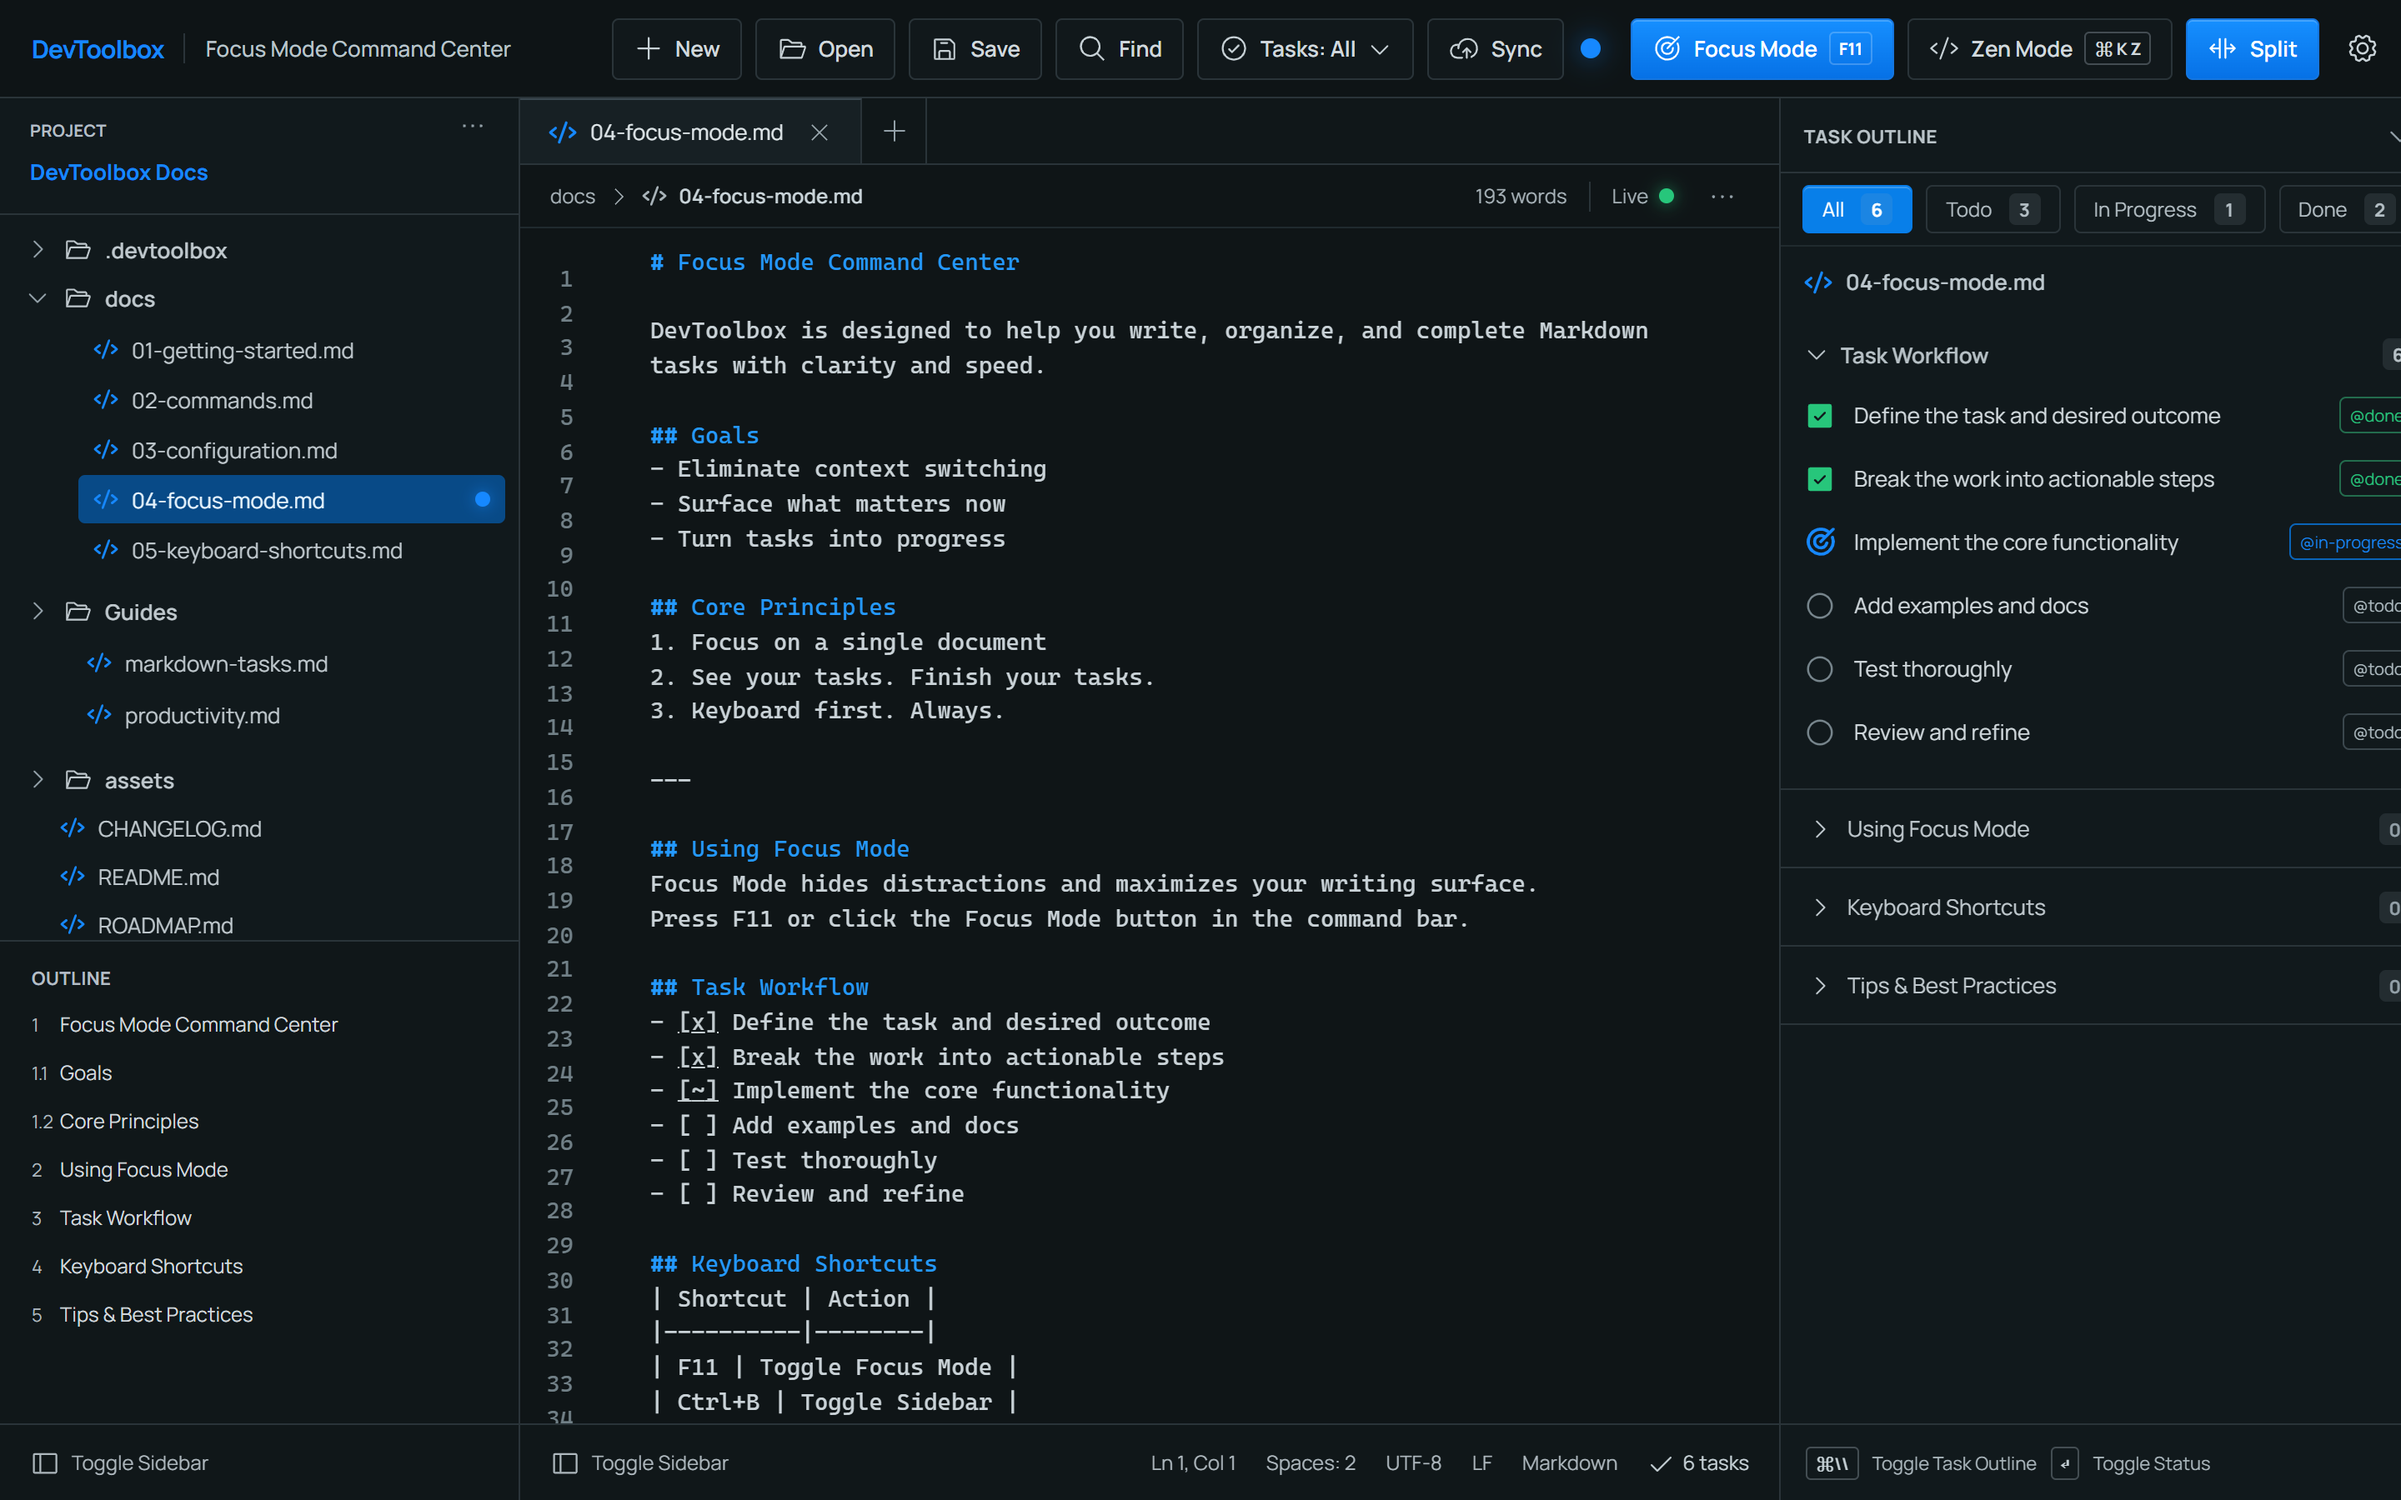
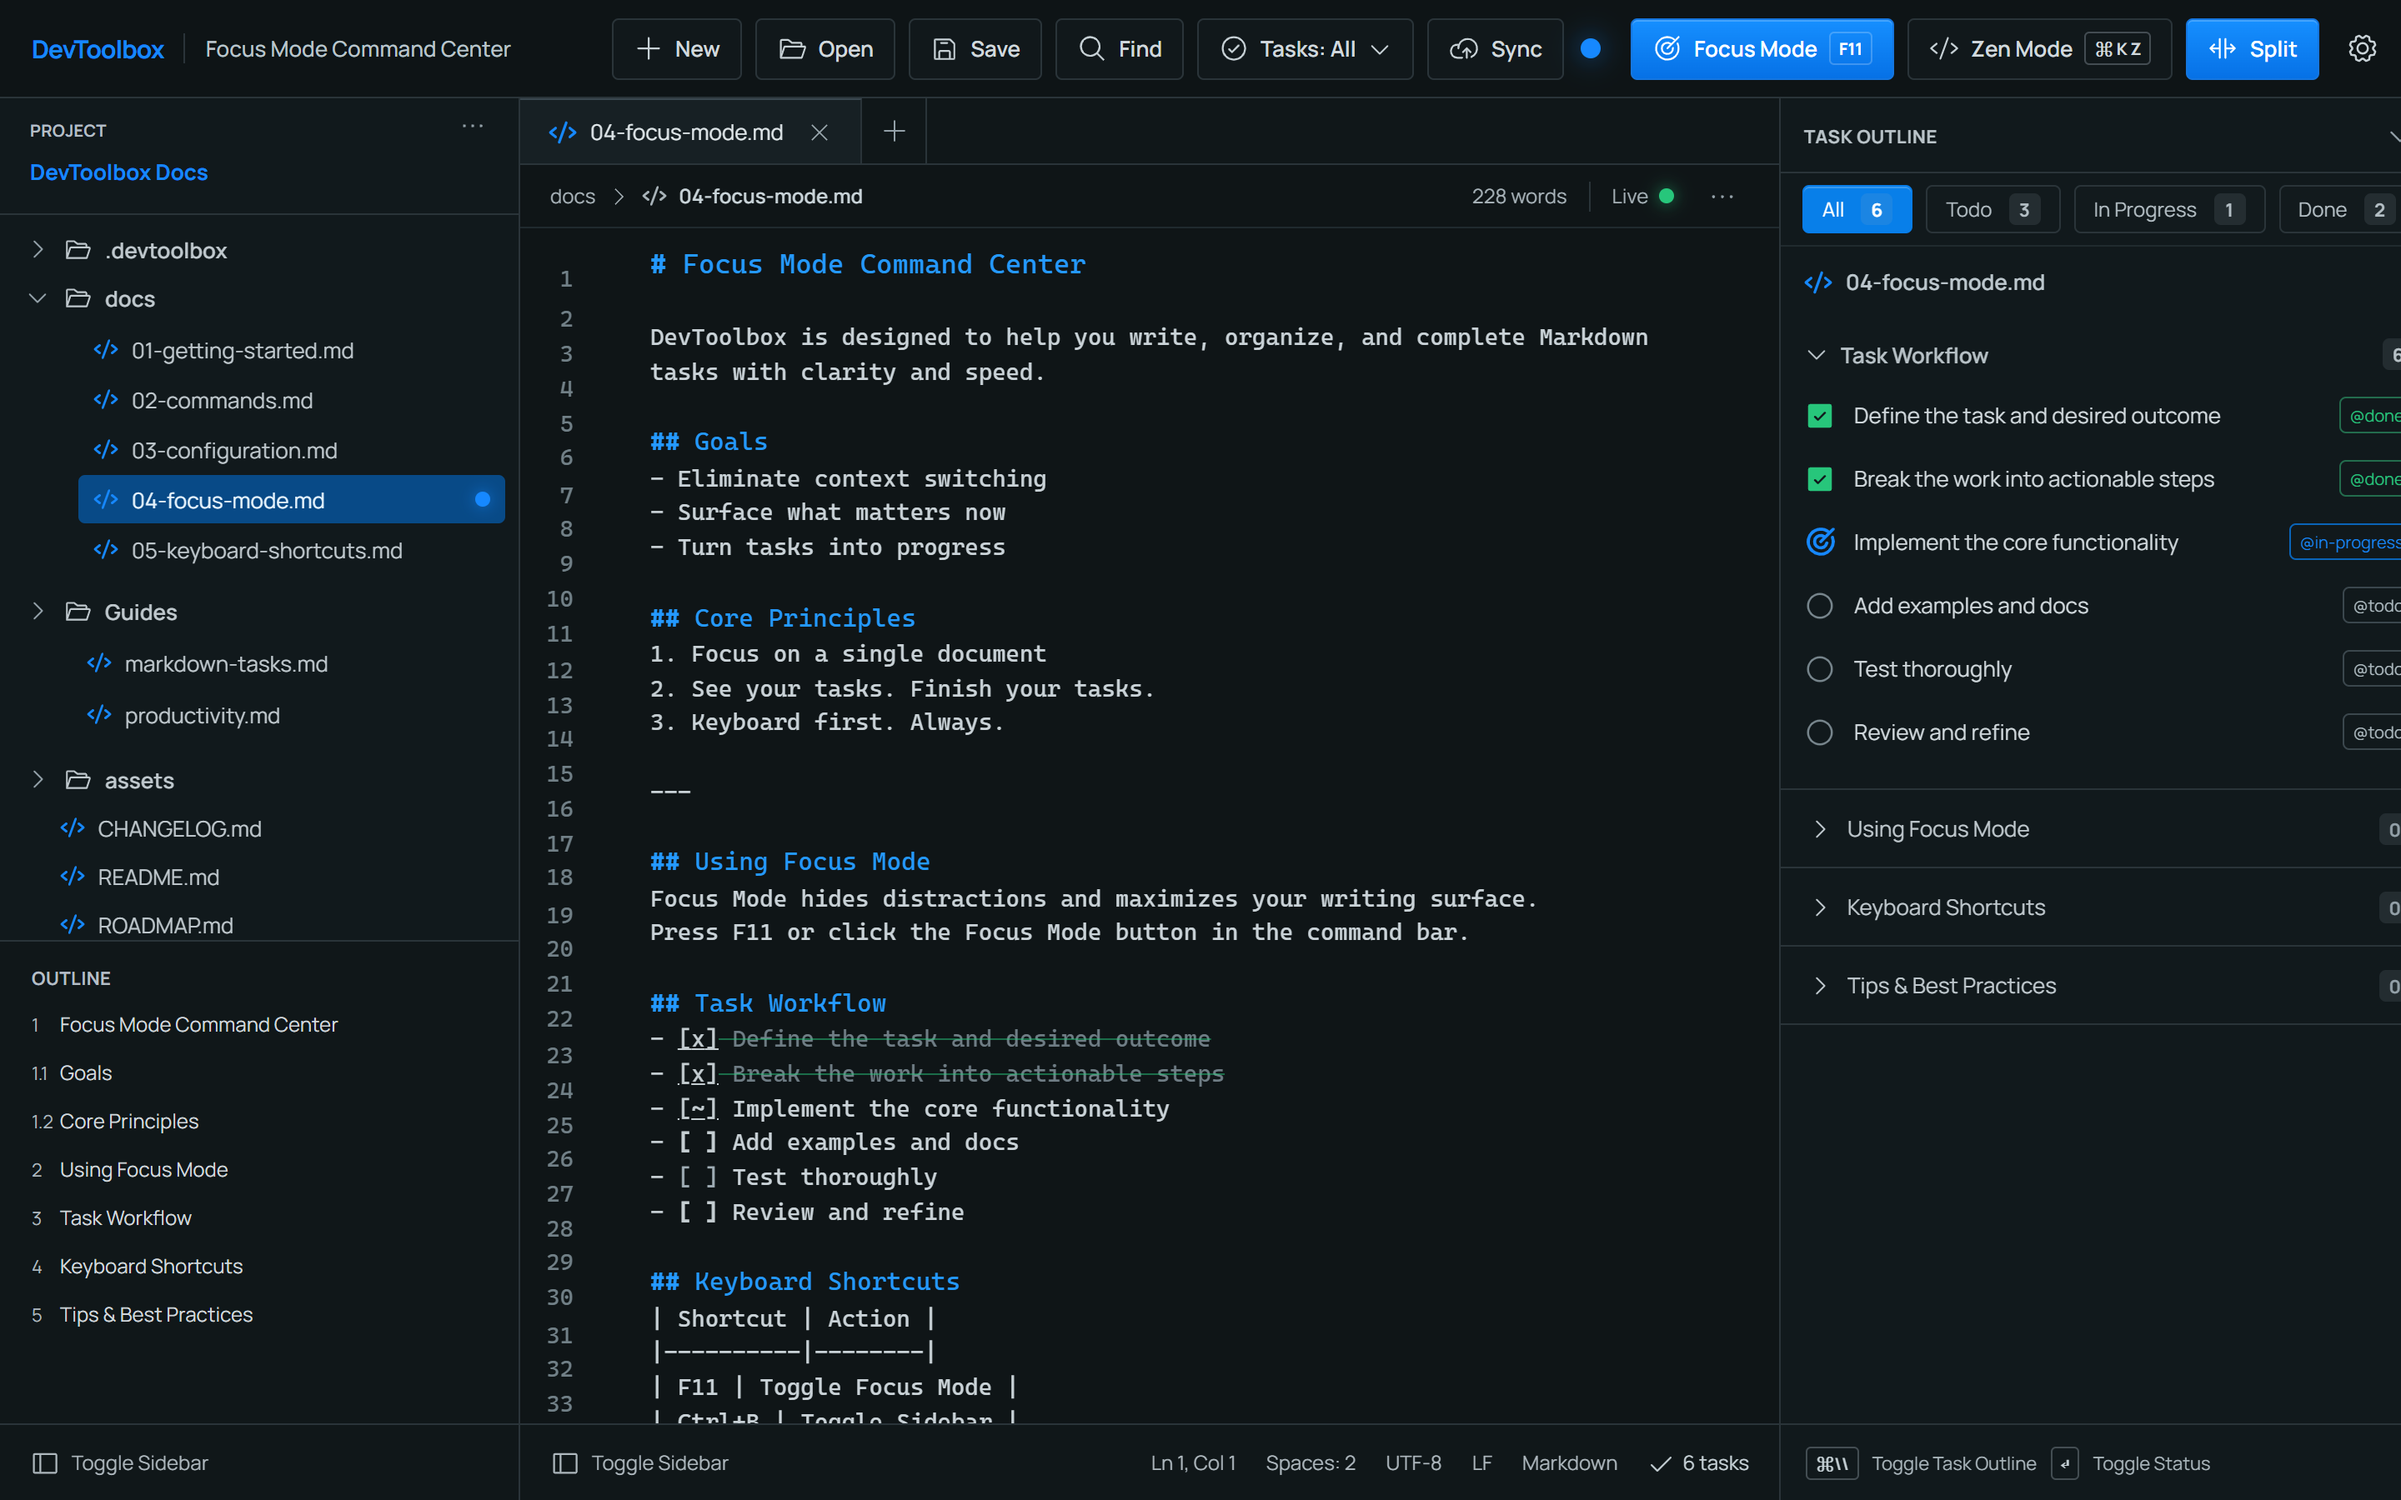
feat(ui): syntax-aware Markdown decorations in the editor
- Task marks colored by status: [ ] gray, [~] blue, [x] green with
  strikethrough on completed lines, matching the task outline palette
- Per-level heading colors (H1-H6) with dimmed # markers
- Fenced code block background with dimmed fence markers
- Blockquote accent bar with subtle background
- List continuation on Enter inside list items
- Enrich default sample document with a snippet/quote section

diff --git a/apps/desktop/ui/src/markdown-decorations.ts b/apps/desktop/ui/src/markdown-decorations.ts
@@ -1,0 +1,117 @@
+import { Decoration, type DecorationSet, EditorView, keymap, ViewPlugin, ViewUpdate } from "@codemirror/view";
+import { insertNewlineContinueMarkup } from "@codemirror/lang-markdown";
+import { type Extension, type Range, type Text } from "@codemirror/state";
+
+/**
+ * DevToolbox Markdown 视觉装饰：
+ * - 任务标记按状态着色（todo 灰 / progress 蓝 / done 绿），done 行文本加删除线变暗；
+ * - ATX 标题按级别配色（# 记号弱化）；
+ * - 围栏代码块整块背景，围栏记号弱化；
+ * - 引用块左侧色条 + 微背景。
+ *
+ * 规则与 Rust `crates/core/src/parser.rs` 的任务行语义保持一致：
+ * 列表前缀可选（`-`/`*`/`+`/有序），标记为 `[...]`，`x` 完成、`~` 进行中。
+ */
+
+const taskRegex = /^(\s*)(?:([-*+]|\d+[.)])[ \t]+)?(\[)([^\[\]]*)(\])/;
+const headingRegex = /^ {0,3}(#{1,6})(\s|$)/;
+const fenceRegex = /^ {0,3}(`{3,}|~{3,})/;
+const quoteRegex = /^ {0,3}>/;
+
+const taskMark = Decoration.mark({ class: "dtb-task-mark" });
+const taskDoneLine = Decoration.mark({ class: "dtb-task-line-done" });
+const headingMark = Decoration.mark({ class: "dtb-heading-mark" });
+const codeLine = Decoration.line({ class: "dtb-codeblock" });
+const codeFenceLine = Decoration.line({ class: "dtb-codeblock dtb-codeblock-fence" });
+const quoteLine = Decoration.line({ class: "dtb-blockquote" });
+
+function headingDecoration(level: number) {
+  return Decoration.mark({ class: "dtb-heading dtb-heading-" + level });
+}
+
+function buildDecorations(doc: Text): DecorationSet {
+  const ranges: Range<Decoration>[] = [];
+  let fence: { ch: string; len: number } | null = null;
+
+  for (let i = 1; i <= doc.lines; i++) {
+    const line = doc.line(i);
+    const text = line.text;
+
+    // 围栏代码块（``` 或 ~~~），先于其他规则处理。
+    const fenceMatch = fenceRegex.exec(text);
+    if (fenceMatch) {
+      const marker = fenceMatch[1];
+      if (!fence) {
+        fence = { ch: marker[0], len: marker.length };
+        ranges.push(codeFenceLine.range(line.from));
+      } else if (marker[0] === fence.ch && marker.length >= fence.len) {
+        fence = null;
+        ranges.push(codeFenceLine.range(line.from));
+      } else {
+        ranges.push(codeLine.range(line.from));
+      }
+      continue;
+    }
+    if (fence) {
+      ranges.push(codeLine.range(line.from));
+      continue;
+    }
+
+    // 引用块。
+    if (quoteRegex.test(text)) {
+      ranges.push(quoteLine.range(line.from));
+      continue;
+    }
+
+    // ATX 标题：整行按级别着色，`#` 记号额外弱化（嵌套 mark）。
+    const headingMatch = headingRegex.exec(text);
+    if (headingMatch) {
+      const level = headingMatch[1].length;
+      ranges.push(headingDecoration(level).range(line.from, line.to));
+      ranges.push(headingMark.range(line.from, line.from + headingMatch[1].length));
+      continue;
+    }
+
+    // 任务行：标记着色，done 行文本删除线变暗。
+    const taskMatch = taskRegex.exec(text);
+    if (taskMatch) {
+      const mark = taskMatch[4];
+      const status = mark.toLowerCase() === "x" ? "done" : mark === "~" ? "progress" : "todo";
+      const markStart = line.from + taskMatch[0].length - taskMatch[3].length - taskMatch[4].length - taskMatch[5].length;
+      const markEnd = line.from + taskMatch[0].length;
+      ranges.push(taskMark.range(markStart, markEnd));
+      ranges.push(Decoration.mark({ class: "dtb-task-" + status }).range(markStart, markEnd));
+      if (status === "done" && line.to > markEnd) {
+        ranges.push(taskDoneLine.range(markEnd, line.to));
+      }
+    }
+  }
+
+  return Decoration.set(ranges, true);
+}
+
+class DevtoolboxDecorations {
+  decorations: DecorationSet;
+
+  constructor(view: EditorView) {
+    this.decorations = buildDecorations(view.state.doc);
+  }
+
+  update(update: ViewUpdate) {
+    if (update.docChanged || update.viewportChanged) {
+      this.decorations = buildDecorations(update.state.doc);
+    }
+  }
+}
+
+const decorationsPlugin = ViewPlugin.fromClass(DevtoolboxDecorations, {
+  decorations: (plugin) => plugin.decorations,
+});
+
+/** 编辑器附加扩展：Markdown 视觉装饰 + 列表自动延续（Enter 补全列表前缀）。 */
+export function devtoolboxMarkdown(): Extension[] {
+  return [
+    decorationsPlugin,
+    keymap.of([{ key: "Enter", run: insertNewlineContinueMarkup }]),
+  ];
+}

diff --git a/apps/desktop/ui/src/App.tsx b/apps/desktop/ui/src/App.tsx
@@ -6,6 +6,7 @@ import { invoke } from "@tauri-apps/api/core";
 import { open, save } from "@tauri-apps/plugin-dialog";
 import CodeMirror, { type ReactCodeMirrorRef } from "@uiw/react-codemirror";
 import { markdown } from "@codemirror/lang-markdown";
+import { devtoolboxMarkdown } from "./markdown-decorations";
 import { oneDark } from "@codemirror/theme-one-dark";
 import {
   CaretDown, CaretRight, Check, CheckCircle, CheckSquare, Circle, CloudArrowUp, Code,
@@ -62,6 +63,17 @@ const focusDocument = [
   "- Keep tasks small and verifiable",
   "- Update status as you go",
   "- Use headings to structure your flow",
+  "",
+  "## Snippets",
+  "",
+  "Set a task mark directly in the editor:",
+  "",
+  "```rust",
+  "let done = \"- [x] Ship the feature\";",
+  "```",
+  "",
+  "> State cycles: Pending → In Progress → Done.",
+  "> Every task stays valid Markdown.",
 ].join("\n");
 
 const sampleFiles = ["01-getting-started.md", "02-commands.md", "03-configuration.md", "04-focus-mode.md", "05-keyboard-shortcuts.md"];
@@ -198,7 +210,7 @@ export default function App() {
       <section className="editor-workbench">
         <div className="editor-tabs"><button className="editor-tab active"><Code size={17} weight="bold" />{documentTitle}<X size={15} /></button><button className="new-tab" onClick={() => { setPath(null); setText(focusDocument); }}><Plus size={17} /></button></div>
         <header className="editor-meta"><div><span>{workspace ? fileName(workspace) : "docs"}</span><CaretRight size={14} /><Code size={15} weight="bold" /><strong>{documentTitle}</strong></div><div><span>{text.trim().split(/\s+/).filter(Boolean).length.toLocaleString()} words</span><i /><span>{dirty ? "Unsaved" : "Live"} <b /></span><button title="More editor actions"><DotsThree size={20} /></button></div></header>
-        <CodeMirror ref={editorRef} className="focus-editor" height="100%" theme={oneDark} extensions={[markdown()]} value={text} onChange={setContent} onKeyDown={(event: ReactKeyboardEvent<HTMLDivElement>) => { if ((event.ctrlKey || event.metaKey) && event.key === "Enter") { event.preventDefault(); const line = editorRef.current?.view?.state.doc.lineAt(editorRef.current.view.state.selection.main.from).number; if (line) void cycleTask(line - 1); } }} basicSetup={{ lineNumbers: true, foldGutter: false, highlightActiveLine: false, highlightActiveLineGutter: false }} indentWithTab aria-label="Focus Mode Markdown editor" />
+        <CodeMirror ref={editorRef} className="focus-editor" height="100%" theme={oneDark} extensions={[markdown(), ...devtoolboxMarkdown()]} value={text} onChange={setContent} onKeyDown={(event: ReactKeyboardEvent<HTMLDivElement>) => { if ((event.ctrlKey || event.metaKey) && event.key === "Enter") { event.preventDefault(); const line = editorRef.current?.view?.state.doc.lineAt(editorRef.current.view.state.selection.main.from).number; if (line) void cycleTask(line - 1); } }} basicSetup={{ lineNumbers: true, foldGutter: false, highlightActiveLine: false, highlightActiveLineGutter: false }} indentWithTab aria-label="Focus Mode Markdown editor" />
         <footer className="editor-status"><div><SidebarSimple size={18} />Toggle Sidebar</div><div><span>Ln 1, Col 1</span><span>Spaces: 2</span><span>UTF-8</span><span>LF</span><span>Markdown</span><span><Check size={16} />{tasks.length} tasks</span></div></footer>
       </section>
       {tasksVisible ? <TaskOutline tasks={tasks} filter={filter} setFilter={setFilter} onCycle={(line) => void cycleTask(line)} /> : null}

diff --git a/apps/desktop/ui/src/styles.css b/apps/desktop/ui/src/styles.css
@@ -101,6 +101,26 @@ kbd { padding: 2px 5px; border: 1px solid rgb(225 240 255 / 24%); border-radius:
 .focus-editor .cm-line span { color: #c4cdd1; font-weight: 400 !important; }
 .focus-editor .ͼ11, .focus-editor .ͼ11.ͼ13 { color: #2499ff !important; font-weight: 700 !important; }
 .focus-editor .ͼ13, .focus-editor .ͼ10 { color: #c4cdd1 !important; }
+
+/* DevToolbox Markdown 装饰：与任务大纲面板共用状态色板（特异性需盖过上方 .cm-line span 强制色） */
+.focus-editor .cm-line.dtb-codeblock { background: #131d22; box-shadow: inset 3px 0 0 #24333c; }
+.focus-editor .cm-line.dtb-codeblock-fence { background: #12191d; }
+.focus-editor .cm-line.dtb-codeblock-fence span { color: #5d6f78 !important; }
+.focus-editor .cm-line.dtb-blockquote { background: rgb(22 136 255 / 7%); box-shadow: inset 3px 0 0 #1676c8; }
+.focus-editor .cm-line.dtb-blockquote span { color: #b6c6d4 !important; font-style: italic; }
+.focus-editor .cm-line span.dtb-heading-mark { color: #5d6f78 !important; font-weight: 600 !important; }
+.focus-editor .cm-line span.dtb-heading { font-weight: 700 !important; }
+.focus-editor .cm-line span.dtb-heading-1 { color: #8fd0ff !important; font-size: 1.18em; font-weight: 800 !important; }
+.focus-editor .cm-line span.dtb-heading-2 { color: #6db9f5 !important; font-size: 1.08em; }
+.focus-editor .cm-line span.dtb-heading-3 { color: #57a8e8 !important; }
+.focus-editor .cm-line span.dtb-heading-4 { color: #4b93cf !important; }
+.focus-editor .cm-line span.dtb-heading-5 { color: #4a86ba !important; }
+.focus-editor .cm-line span.dtb-heading-6 { color: #567c9e !important; }
+.focus-editor .cm-line span.dtb-task-mark { font-weight: 700 !important; }
+.focus-editor .cm-line span.dtb-task-todo { color: #9fadb5 !important; }
+.focus-editor .cm-line span.dtb-task-progress { color: var(--blue-hover) !important; }
+.focus-editor .cm-line span.dtb-task-done { color: var(--green) !important; }
+.focus-editor .cm-line span.dtb-task-line-done { color: #6f7d85 !important; text-decoration: line-through; text-decoration-color: rgb(39 198 123 / 50%); }
 .editor-status { justify-content: space-between; padding: 0 18px; border-top: 1px solid var(--line); background: #101719; color: #aeb8be; font-size: 12px; }
 .editor-status > div { display: flex; align-items: center; gap: 18px; }
 .editor-status > div:first-child { gap: 7px; }

diff --git a/README.md b/README.md
@@ -60,9 +60,21 @@ npm --prefix apps/desktop/ui exec -- tauri build
 | Done | `- [x] CA` | ● | 绿 |
 
 * 点击编辑器中的 `[ ]` 标记即可切换状态；
+* 编辑器内任务标记按状态着色（`[ ]` 灰 / `[~]` 蓝 / `[x]` 绿），已完成行自动删除线变暗，
+  与右侧任务大纲面板视觉统一；
 * 状态定义集中在 `crates/core/src/task_state.rs` 的注册表中，
   新增 Blocked / Failed 等状态只需 `register()` 一条；
 * 解析规则由 `tests/fixtures/task_rules.json` 固化，Rust 单元测试直接消费该文件。
+
+## 编辑器美化
+
+装饰逻辑位于 `apps/desktop/ui/src/markdown-decorations.ts`（CodeMirror ViewPlugin）：
+
+* **任务标记状态着色**：`[x]` 绿色 + 删除线，`[~]` 蓝色，`[ ]` 灰色；
+* **标题分级配色**：H1–H6 由亮到暗的蓝色阶，`#` 记号弱化，H1/H2 字号微调；
+* **围栏代码块**：整块背景色 + 左侧色条，围栏记号弱化；
+* **引用块**：左侧蓝色条 + 微背景 + 斜体；
+* **列表自动延续**：在列表项末尾回车，自动补全 `- `/序号前缀。
 
 ## 快捷键
 
